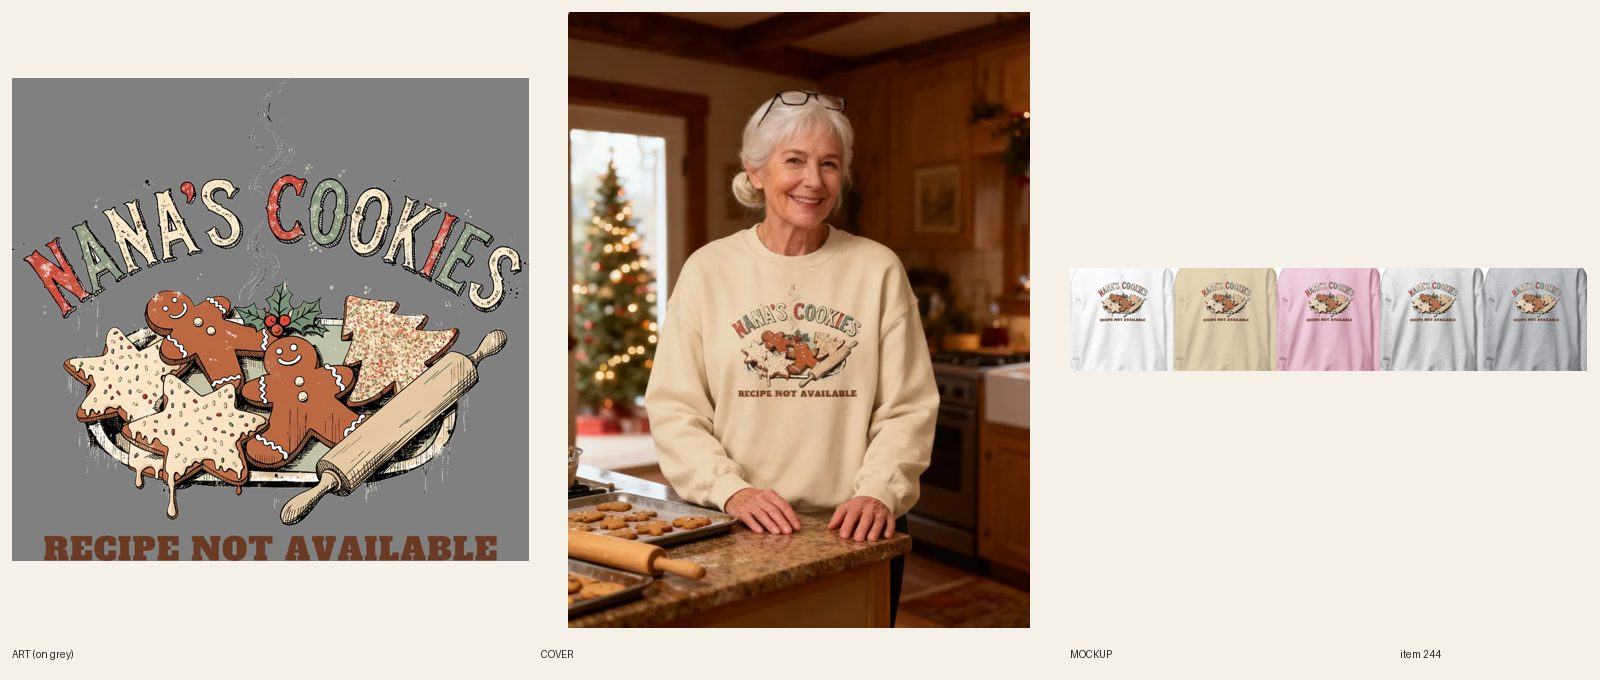
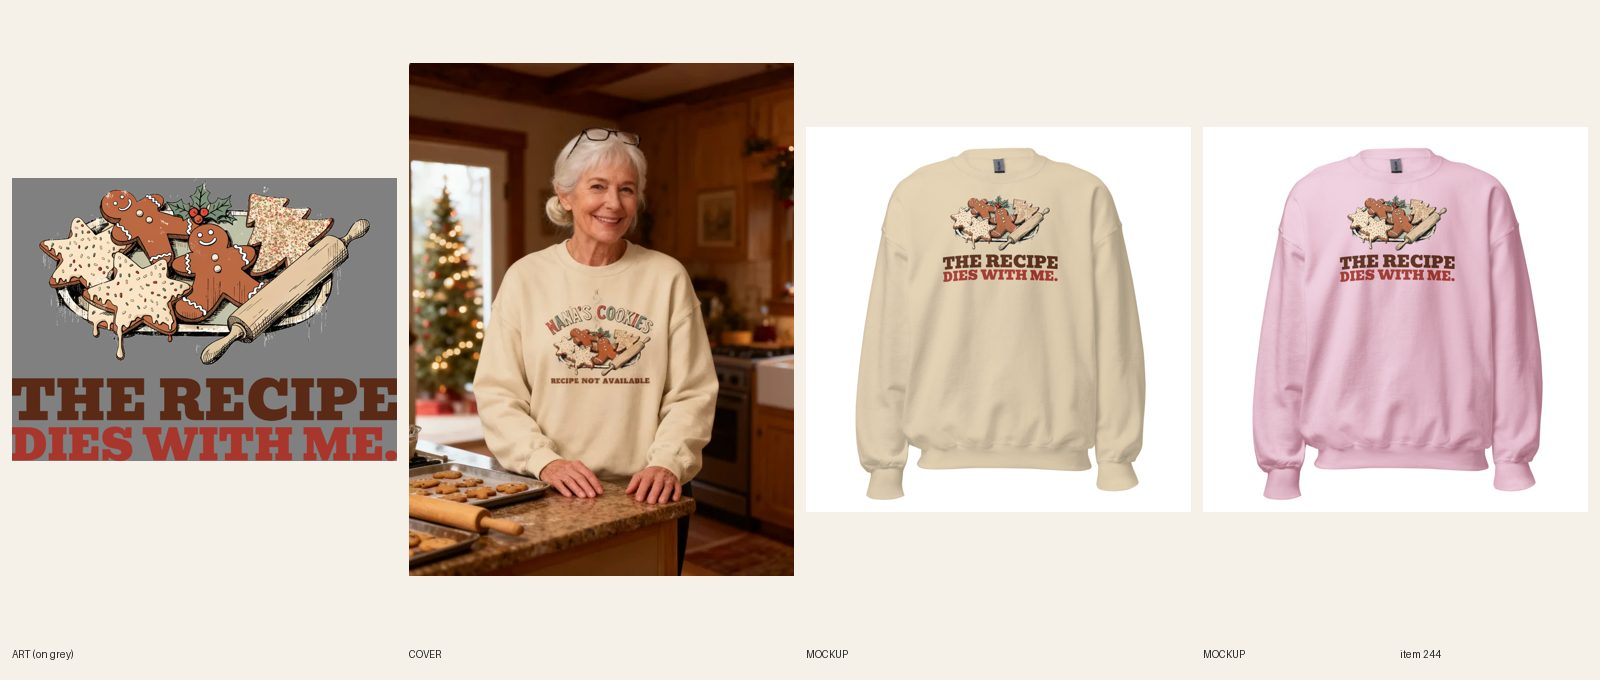
[A] review 244 Nana's Cookies crewneck (approved print port)
Claude-Session: https://claude.ai/code/session_01329MQgwzAQr5oBpMUjmgKR

diff --git a/docs/pipeline/244-christmas-nanas-cookies-crewneck.md b/docs/pipeline/244-christmas-nanas-cookies-crewneck.md
@@ -1,4 +1,4 @@
-status: REDO
+status: REVIEW
 lane: A
 type: new
 id: 244
@@ -33,3 +33,4 @@ handle: womens-christmas-nanas-cookies-crewneck-sweatshirt
 - 2026-10-17 21:19 UTC director: LIVE. sheet seen: Nana's Cookies bakery scene + RECIPE NOT AVAILABLE reads at phone size; cover woman 60s in a holiday kitchen (age fits Nana, R6.6). ACTIVE + Online Store, Headless, Google & YouTube; audit --handle PASS.
 - 2026-10-18 17:22 UTC director: QUALITY RESET grade C (new line + type), REDO. The product stays ACTIVE (same handle, URL, title keyword). 1. Line (R3.12, quality-reset 'Lines'): "NANA'S COOKIES / RECIPE NOT AVAILABLE": Noun + mild aside, the exact step-back pattern. Write 5 candidates, keep the one a stranger laughs at in 3 seconds without backstory; kill lines that only describe the picture; if none of the 5 is funny, PARK it. 2. Quality reset type bar (docs/backlog/quality-reset.md, 'The new bar'): headline at least 90% of the art width, heavy, colors pulled from the art; second line at least 45% of the headline's height, never a thin script on a dark or mid garment; use the lettering as a shape (arch, stacked lockup, words breaking into the art), not a plain bar above and a script line below; no font used on more than 1 in 6 of the last 30 designs. 3. Keep the art if it carries the new line, else one new illustration (R4/R5). New print means a new cover per R6.10, copy line one rewritten for the new joke (R8.3), and a fresh review sheet (R7.7). While quality-reset.md says PAUSED, only lane A builds, and only the samples step 2 names.
 - 2026-10-19 15:55 UTC director: SHORTCUT for this REDO: its source design #245 went LIVE today with the line THE RECIPE / DIES WITH ME., approved by Sam (quality-reset sample). Do not write new lines: port docs/print-files/245-recipe-v2.png (Printful file 1089291319) to this blank. Set your own width for this garment (R5.3.8 twins: crewneck FW 1650, hoodie FW 1500+, top of print about 3 in below the collar), make a light-ink file only if a dark garment color is offered (R5.3.8), relink every variant and log the count (R7.7), new fronts per color, copy line one and FAQ updated to the new line, plain product shot cover (add the handle to src/data/retired-covers.json; no new cover, RESUME terms), fresh docs/review/<id>.jpg. fal $0. Take these before other REDOs: they are the fastest way to match Sam-approved designs across garments.
+- 2026-10-19 16:13 UTC builder [A]: REDO 244 ported Sam-approved #245 print THE RECIPE / DIES WITH ME. (docs/print-files/245-recipe-v2.png, Printful file 1089291319) to the Gildan 18000 crewneck. FW 1650 TOP 75. All 5 colors are light (White, Sand, Light Pink, Ash, Sport Grey), so no light-ink file needed (brown + red ink). Relinked 30/30 verified on the new file, back logo kept (R7.7). New fronts for all 5 colors replace the old in place (fileUpdate), read at phone size on Sand and Light Pink. Copy: Story line one + FAQ 1 updated to the new line, no arch/RECIPE NOT AVAILABLE wording. Plain product shot: handle added to retired-covers.json. audit --handle PASS 0 warn. fal $0. Sheet docs/review/244.jpg. REVIEW.

diff --git a/docs/intake-log.md b/docs/intake-log.md
@@ -1,5 +1,6 @@
 RUNNING lane B since 2026-10-19 16:02 UTC
-RUNNING lane A since 2026-10-19 15:59 UTC
+2026-10-19 16:13 UTC — [A] Builder run: redid #244 Nana's Cookies crewneck (ported approved #245 THE RECIPE / DIES WITH ME. print, FW 1650, 30/30 relinked, 5 fronts replaced, plain product shot). REVIEW. fal $0. 1 redo per run cap reached. Lock released.
+RUNNING lane C since 2026-10-19 15:56 UTC
 2026-10-19 16:00 UTC — [E] Builder run: redid #282 Bulking Season tee (type only: Anton stacked red/green lockup at about 92% art width, same Santa art, FW 1400, 42/42 synced, 6 front mockups replaced in place, plain product shot). REVIEW. fal $0. 1 redo per run cap reached. Lock released.
 2026-10-19 16:02 UTC — [C] Builder run: redid #441 Eight Arms, Zero Hugs oversized hoodie (type only: heavy AlfaSlabOne cream/coral lockup, same art, FW 1500, 12/12 synced, Dust+Navy mockups replaced in place, plain product shot). REVIEW. fal $0. 1 redo per run cap reached. Lock released.
 2026-10-19 15:47 UTC — [A] Builder run: RESUMED; redid #239 Resting My Eyes tee (type only: heavy stacked RESTING / MY EYES lockup, same art, FW 1400, 42/42 synced, mockups replaced in place, plain product shot). REVIEW. fal $0. 1 redo per run cap reached. Lock released.
@@ -786,7 +787,6 @@ PAUSED 2026-10-18 16:55 UTC — Claude (Sam: quality went backwards: pasted mock
 2026-10-19 14:35 UTC — [C] Builder run: quality reset still PAUSED; no READY lane C gift add-on briefs; remaining lane C items are regular hoodies, not allowed; covers on hold. Nothing built; no lock taken.
 2026-10-19 14:30 UTC — [B] Builder run: quality reset still PAUSED; no READY lane B gift add-on briefs; remaining lane B items are regular, not allowed; covers on hold. Nothing built; no lock taken.
 2026-10-19 15:21 UTC — [E] Builder run: quality reset still in force; no lane E gift add-on briefs; remaining lane E READY items are regular, not allowed; covers on hold. Nothing built; no lock taken.
-RUNNING lane A since 2026-10-16 19:00 UTC
 2026-10-16 19:09 UTC — [A] REVIEW #208 Women's Christmas Golf hoodie (synced 12/12).
 2026-10-16 19:50 UTC — [A] BUILDING #209 Mountain Christmas Bear hoodie and #210 Ski Lodge hoodie (drafts built, covers, mockups, audit PASS; Printful syncs queued, REVIEW when 12/12).
 2026-10-16 19:25 UTC — [A] BUILDING #208 Women's Christmas Golf hoodie (draft built, cover, mockups, audit PASS; Printful sync queued, REVIEW when 12/12).
